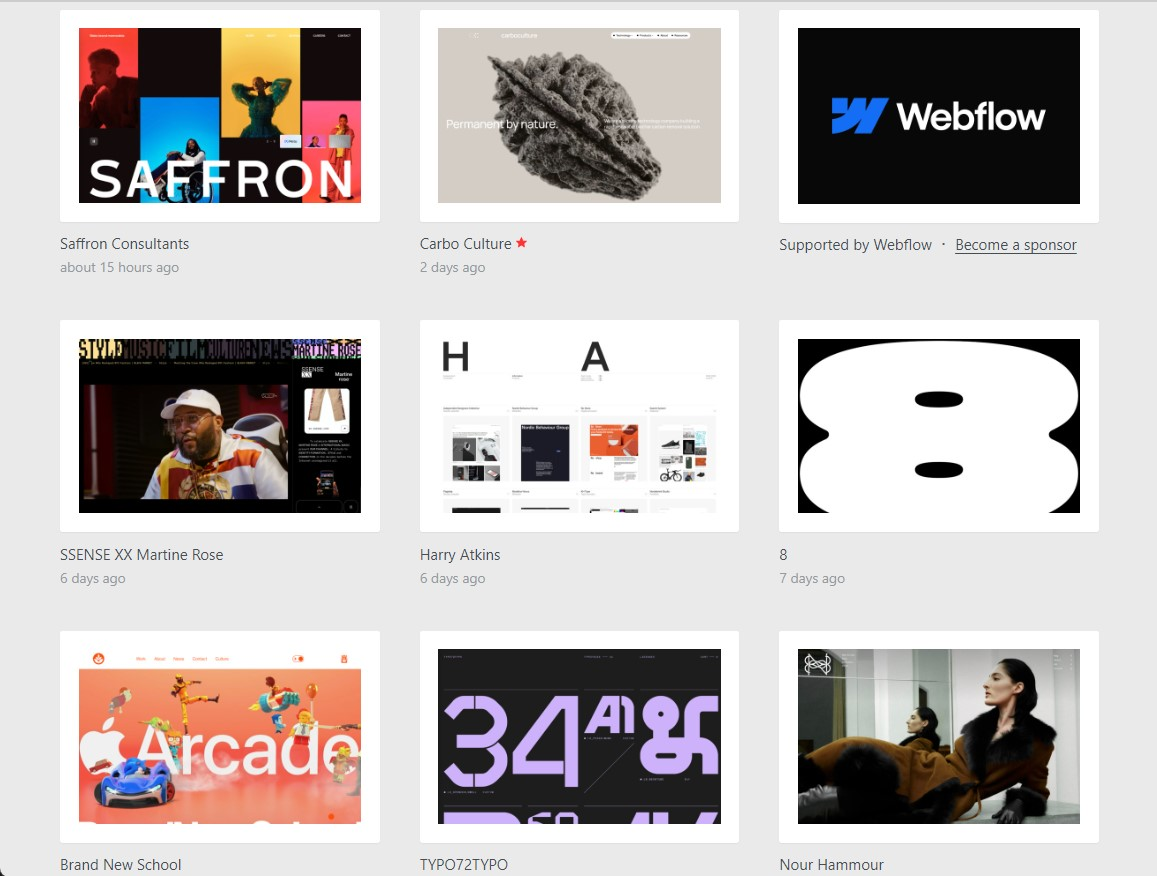
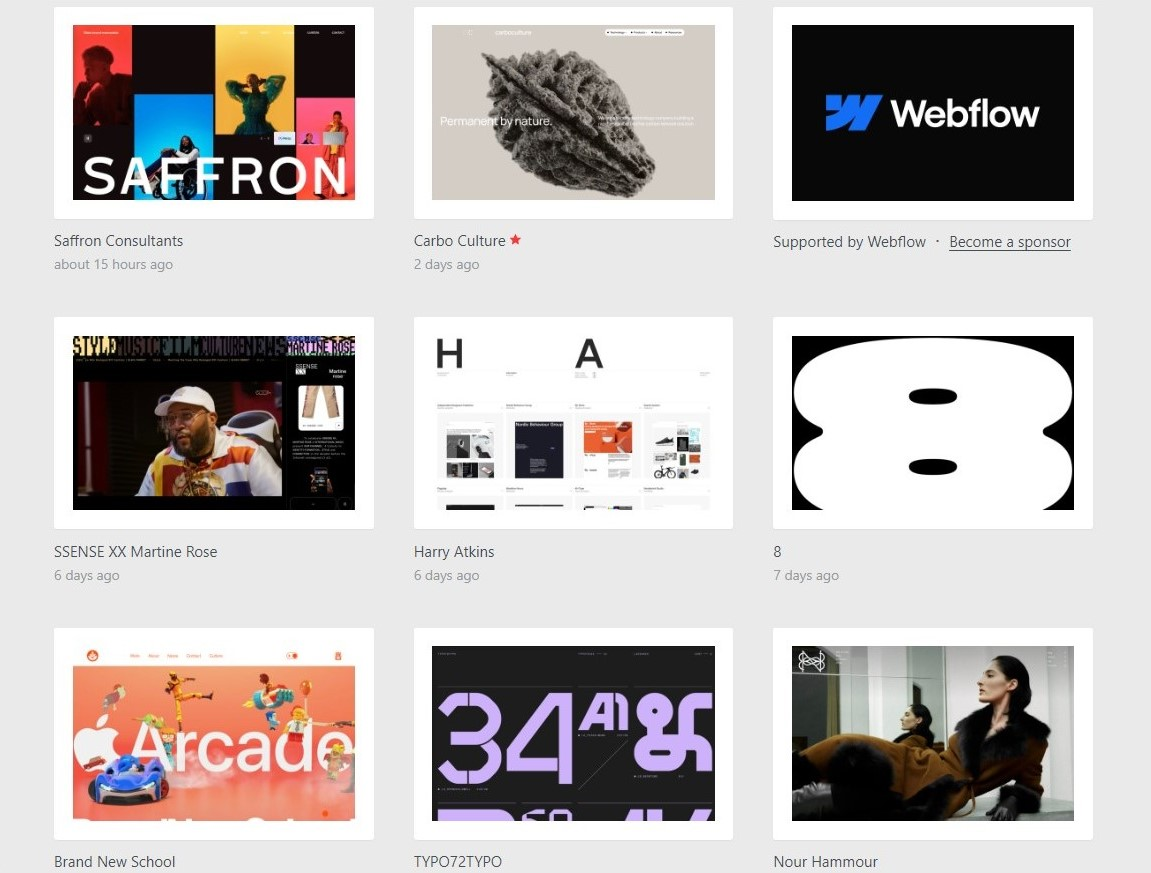
finetuning

diff --git a/CSS/style.css b/CSS/style.css
@@ -6,14 +6,12 @@ html {
 .container{
 	width: 700px;
 	height: 700px;
-	border: 1px dashed black;
 	margin-bottom: var(--spacing-medium);
 }
 
 .container-small{
 	width: 100px;
 	height: 100px;
-	border: 1px dashed black;
 	margin-bottom: var(--spacing-medium);
 }
 
@@ -32,12 +30,17 @@ html {
 	display: flex;
 	justify-content: space-between;
 	align-items: center;
-	background-color: aqua;
+}
+
+.site-screenshot{
+	border-radius: 15px; 
+	margin-bottom: var(--spacing-small);
 }
 
 .site-screenshot:hover {
-	transform: scale(1.1); /* Scale the element by 10% on hover */
-	transition: transform 0.3s; 
+	transform: scale(1.05); 
+	transition: transform 0.3s; /* for smoother scaling */
+	box-shadow: 4px 8px 8px rgba(0, 0, 0, 0.2);
   }
 
 @media screen and (min-width: 1920px) {

diff --git a/index.html b/index.html
@@ -14,7 +14,7 @@
 	<div class="container-for-nav"> <!-- because I could not find a better way to center the navigation-bar -->
 		<nav class="navigation-bar">
 			<img class="logo" src="assets\InspoLogo.jpg" alt="geometric logo">
-			<div class="text--big">All you need for your website</div>
+			<div class="text--big">All you need for creating a website</div>
 			<div class="text--medium">On one page!</div>
 		</nav>
 	</div>
